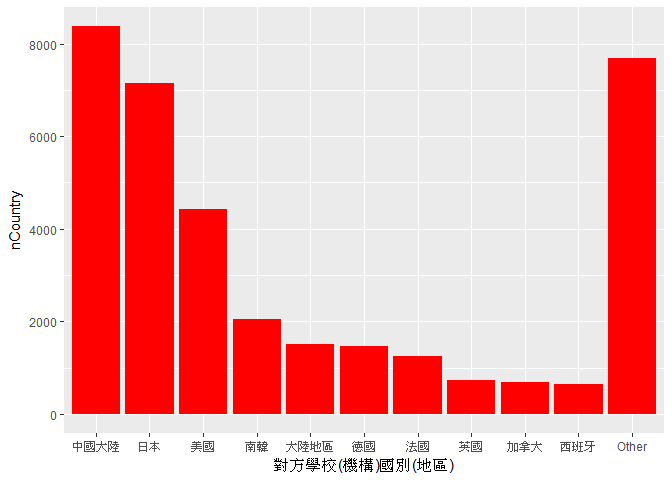
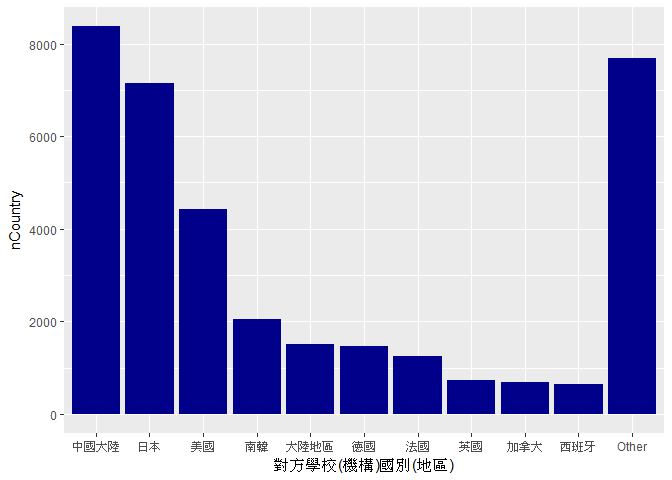
done4
done4

Changed region(s): [[0.0938, 0.0312, 1.0, 0.875]]

diff --git a/InternationalStudents.md b/InternationalStudents.md
@@ -174,7 +174,6 @@ s106<- read_csv("https://quality.data.gov.tw/dq_download_csv.php?nid=6289&md5_ur
 
 ``` r
 #這是R Code Chunk
-
 library(knitr)
 kable(head(iris))
 ```
@@ -251,25 +250,27 @@ c103104105106<-arrange(c103104105106,desc(c103104105106$total))
 knitr::kable(c103104105106[1:10,c(1,6)])
 ```
 
-| country      |                                                                                                                           total|
-|:-------------|-------------------------------------------------------------------------------------------------------------------------------:|
-| 中國大陸     |                                                                                                                          152524|
-| 馬來西亞     |                                                                                                                           62031|
-| 香港         |                                                                                                                           31940|
-| 日本         |                                                                                                                           28200|
-| 越南         |                                                                                                                           21670|
-| 澳門         |                                                                                                                           20302|
-| 印尼         |                                                                                                                           19620|
-| 南韓         |                                                                                                                           16948|
-| 美國         |                                                                                                                           14846|
-| 泰國         |                                                                                                                            7035|
-| 由上述資料分 |  析結果，顯示出「中國」來台灣唸書的學生最多，其次才是馬來西亞、香港、日本等等。其中，中國來台念書的人數為馬來西亞的2.46倍之多。|
+| country  |   total|
+|:---------|-------:|
+| 中國大陸 |  152524|
+| 馬來西亞 |   62031|
+| 香港     |   31940|
+| 日本     |   28200|
+| 越南     |   21670|
+| 澳門     |   20302|
+| 印尼     |   19620|
+| 南韓     |   16948|
+| 美國     |   14846|
+| 泰國     |    7035|
+
+由上述資料分析結果，顯示出**中國大陸**來台灣唸書的學生最多，其次才是馬來西亞、香港、日本等等。其中，中國來台念書的人數為馬來西亞的2.46倍之多。另外，前十名內僅有**美國**為非亞洲國家，其餘皆為亞洲國家。
+
+------------------------------------------------------------------------
 
 ### 哪間大學的境外生最多呢？
 
 ``` r
 #這是R Code Chunk
-
 s103$`非學位生-大陸研修生`<-as.numeric(gsub("…","0",s103$`非學位生-大陸研修生`))
 s103<-data.frame(school=s103$學校名稱,people103=s103$`學位生-正式修讀學位外國生`+s103$`學位生-僑生(含港澳)`+s103$`學位生-正式修讀學位陸生`+
                    s103$`非學位生-外國交換生`+s103$`非學位生-外國短期研習及個人選讀`+s103$`非學位生-大專附設華語文中心學生`+
@@ -314,24 +315,28 @@ s103104105106<-arrange(s103104105106,desc(s103104105106$total))
 knitr::kable(s103104105106[1:10,c(1,6)])
 ```
 
-| school               |                                                                                                                                                                     total|
-|:---------------------|-------------------------------------------------------------------------------------------------------------------------------------------------------------------------:|
-| 無法區分校別         |                                                                                                                                                                     92586|
-| 國立臺灣師範大學     |                                                                                                                                                                     22113|
-| 國立臺灣大學         |                                                                                                                                                                     18199|
-| 中國文化大學         |                                                                                                                                                                     16074|
-| 銘傳大學             |                                                                                                                                                                     16057|
-| 淡江大學             |                                                                                                                                                                     13887|
-| 國立政治大學         |                                                                                                                                                                     11626|
-| 國立成功大學         |                                                                                                                                                                     10982|
-| 輔仁大學             |                                                                                                                                                                      9499|
-| 逢甲大學             |                                                                                                                                                                      9474|
-| 由上述資料分析結果， |  顯示出「臺灣師範大學」為大學的境外生最多的學校。其次才是國立臺灣大學、中國文化大學、銘傳大學等等。出乎意料地，大學的境外生在臺灣師範大學竟然超出國立臺灣大學將近四千人。|
+| school           |  total|
+|:-----------------|------:|
+| 無法區分校別     |  92586|
+| 國立臺灣師範大學 |  22113|
+| 國立臺灣大學     |  18199|
+| 中國文化大學     |  16074|
+| 銘傳大學         |  16057|
+| 淡江大學         |  13887|
+| 國立政治大學     |  11626|
+| 國立成功大學     |  10982|
+| 輔仁大學         |   9499|
+| 逢甲大學         |   9474|
+
+由上述資料分析結果，顯示出**臺灣師範大學**為大學的境外生最多的學校。其次才是國立臺灣大學、中國文化大學、銘傳大學等等。出乎意料地，大學的境外生在臺灣師範大學竟然超出國立臺灣大學將近四千人。雖然資料顯示出境外生人數的多寡，然而卻無從得知境外生所佔學校人數的比例。因此，若得知更多相關資料便能再更進一步的分析。
+
+------------------------------------------------------------------------
 
 ### 各個國家來台灣唸書的學生人數條狀圖
 
 ``` r
 #這是R Code Chunk
+#install.packages("ggplot2")
 library(ggplot2)
 ggplot()+geom_bar(data=c103104105106,
                   aes(x=country,y=total),
@@ -356,10 +361,14 @@ ggplot()+geom_bar(data=groupCountry1,
 
 ![](InternationalStudents_files/figure-markdown_github/ToTWNCountryBar-2.png)
 
+------------------------------------------------------------------------
+
 ### 各個國家來台灣唸書的學生人數面量圖
 
 ``` r
 #這是R Code Chunk
+#install.packages("choroplethr")
+#install.packages("readr")
 library(choroplethr)
 ```
 
@@ -399,9 +408,9 @@ colnames(TotalCountry)<-c("country","value","ISO3","region")
 TotalCountry[5,2]<-TotalCountry[5,2]+TotalCountry[91,2]+TotalCountry[159,2]
 TotalCountry[107,2]<-TotalCountry[107,2]+TotalCountry[108,2]
 TotalCountry<-TotalCountry%>%
-  subset(region!="Unmatch")%>%
-  subset(country!="索馬利蘭共和國")
-a3<-country_choropleth(TotalCountry)
+    subset(region!="Unmatch")%>%
+    subset(country!="索馬利蘭共和國")
+map1<-country_choropleth(TotalCountry)
 ```
 
     ## Warning in super$initialize(country.map, user.df): Your data.frame contains
@@ -414,10 +423,11 @@ a3<-country_choropleth(TotalCountry)
     ## lesotho
 
 ``` r
-a3
+map1
 ```
 
 ![](InternationalStudents_files/figure-markdown_github/ToTWNCountryMap-1.png)
+-----------------------------------------------------------------------------
 
 台灣學生國際交流分析
 --------------------
@@ -426,6 +436,7 @@ a3
 
 ``` r
 #這是R Code Chunk
+#install.packages("readr")
 library(readr)
 Student_RPT_07 <- read_csv("C:/Users/IM/Desktop/Student_RPT_07.csv")
 ```
@@ -456,13 +467,12 @@ Student_RPT_07 <- read_csv("C:/Users/IM/Desktop/Student_RPT_07.csv")
 
 ``` r
 #這是R Code Chunk
-
 library(dplyr)
-a<-subset(Student_RPT_07,`學年度`>102)%>%
+data1<-subset(Student_RPT_07,`學年度`>102)%>%
   group_by(`對方學校(機構)國別(地區)`)%>%
   summarise(nCountry=sum(小計))
-b<-arrange(a,desc(nCountry))
-knitr::kable(b[1:10,])
+data2<-arrange(data1,desc(nCountry))
+knitr::kable(data2[1:10,])
 ```
 
 | 對方學校(機構)國別(地區) |  nCountry|
@@ -478,39 +488,45 @@ knitr::kable(b[1:10,])
 | 加拿大                   |       689|
 | 西班牙                   |       642|
 
+由上述資料分析結果，顯示出**中國大陸**為台灣大專院校的學生最喜歡去進修交流的國家。其次才是日本、美國、南韓等等。由此可見，台灣大專院校的學生並非僅以較近的亞洲國家(金錢)，作為進修交流的考量。
+
+------------------------------------------------------------------------
+
 ### 哪間大學的出國交流學生數最多呢？
 
 ``` r
 #這是R Code Chunk
-
-c<-subset(Student_RPT_07,`學年度`>102)%>%
+data3<-subset(Student_RPT_07,`學年度`>102)%>%
   group_by(`學校名稱`)%>%
   summarise(nSchool=sum(小計))
-d<-arrange(c,desc(nSchool))
-knitr::kable(d[1:10,])
+data4<-arrange(data3,desc(nSchool))
+knitr::kable(data4[1:10,])
 ```
 
-| 學校名稱         |                                                                                                                                                                             nSchool|
-|:-----------------|-----------------------------------------------------------------------------------------------------------------------------------------------------------------------------------:|
-| 國立臺灣大學     |                                                                                                                                                                                2224|
-| 淡江大學         |                                                                                                                                                                                2038|
-| 國立政治大學     |                                                                                                                                                                                1876|
-| 逢甲大學         |                                                                                                                                                                                1346|
-| 元智大學         |                                                                                                                                                                                1106|
-| 國立臺北大學     |                                                                                                                                                                                 956|
-| 國立交通大學     |                                                                                                                                                                                 951|
-| 東海大學         |                                                                                                                                                                                 931|
-| 東吳大學         |                                                                                                                                                                                 873|
-| 國立成功大學     |                                                                                                                                                                                 846|
-| 由上述資料分析結 |  果，顯示出「國立臺灣大學」的出國交流學生數在台灣眾多學校中遙遙令先暫居第一。其次才是淡江大學、國立政治大學、逢甲大學等等。其中，由前三名中顯示並非國立大學才是出國交流的第一選擇。|
+| 學校名稱     |  nSchool|
+|:-------------|--------:|
+| 國立臺灣大學 |     2224|
+| 淡江大學     |     2038|
+| 國立政治大學 |     1876|
+| 逢甲大學     |     1346|
+| 元智大學     |     1106|
+| 國立臺北大學 |      956|
+| 國立交通大學 |      951|
+| 東海大學     |      931|
+| 東吳大學     |      873|
+| 國立成功大學 |      846|
+
+由上述資料分析結果，顯示出**國立臺灣大學**的出國交流學生數，在台灣眾多學校中遙遙令先暫居第一。其次才是淡江大學、國立政治大學、逢甲大學等等。然而，由前十名中顯示，台灣學校出國交流學生數的排名為私立學校換國立學校各佔一半，因此並非國立大學才是決定出國交流的第一選擇。
+
+------------------------------------------------------------------------
 
 ### 台灣大專院校的學生最喜歡去哪些國家進修交流條狀圖
 
 ``` r
 #這是R Code Chunk
-
+#install.packages("ggplot2")
 library(ggplot2)
-ggplot()+geom_bar(data=a,
+ggplot()+geom_bar(data=data1,
                   aes(x=`對方學校(機構)國別(地區)`,y=nCountry),
                   stat = "identity") +labs(x="國家",y="人數")+theme(axis.text.x = element_text(angle = 90, hjust = 0.001))
 ```
@@ -518,25 +534,28 @@ ggplot()+geom_bar(data=a,
 ![](InternationalStudents_files/figure-markdown_github/FromTWNCountryBar-1.png)
 
 ``` r
-groupCountry2<-a%>%
-  group_by(`對方學校(機構)國別(地區)`)%>%
-  tally(nCountry,sort=TRUE)%>%
-  group_by(`對方學校(機構)國別(地區)` = factor(c(`對方學校(機構)國別(地區)`[1:10], rep("Other", n() - 10)),
-                                     levels = c(`對方學校(機構)國別(地區)`[1:10], "Other")))%>%
-  tally(n)
+groupCountry2<-data1%>%
+    group_by(`對方學校(機構)國別(地區)`)%>%
+    tally(nCountry,sort=TRUE)%>%
+    group_by(`對方學校(機構)國別(地區)` = factor(c(`對方學校(機構)國別(地區)`[1:10], rep("Other", n() - 10)),
+                                          levels = c(`對方學校(機構)國別(地區)`[1:10], "Other")))%>%
+    tally(n)
 colnames(groupCountry2)<-c("對方學校(機構)國別(地區)","nCountry")
 ggplot()+geom_bar(data=groupCountry2,
                   aes(x=`對方學校(機構)國別(地區)`,y=nCountry),
                   stat = "identity",
-                  fill = "red")
+                  fill = "darkblue")
 ```
 
 ![](InternationalStudents_files/figure-markdown_github/FromTWNCountryBar-2.png)
+-------------------------------------------------------------------------------
 
 ### 台灣大專院校的學生最喜歡去哪些國家進修交流面量圖
 
 ``` r
 #這是R Code Chunk
+#install.packages("choroplethr")
+#install.packages("readr")
 library(choroplethr)
 library(readr)
 countryname <- read_csv("C:/Users/IM/Desktop/CountriesComparisionTable.csv")
@@ -551,13 +570,13 @@ countryname <- read_csv("C:/Users/IM/Desktop/CountriesComparisionTable.csv")
 
 ``` r
 colnames(countryname)<-c("ISO3","English","中文")
-counta<-a
-colnames(counta)<-c("國名","count")
-countb<-merge(counta,countryname,by.x="國名",by.y="中文")
-colnames(countb)<-c("國名","value","ISO3","region")
-countb<-countb%>%
+count1<-data1
+colnames(count1)<-c("國名","count")
+count2<-merge(count1,countryname,by.x="國名",by.y="中文")
+colnames(count2)<-c("國名","value","ISO3","region")
+count2<-count2%>%
   subset(region!="Unmatch")
-a6<-country_choropleth(countb,num_colors=9)
+map2<-country_choropleth(count2,num_colors=9)
 ```
 
     ## Warning in super$initialize(country.map, user.df): Your data.frame contains
@@ -582,10 +601,11 @@ a6<-country_choropleth(countb,num_colors=9)
     ## lesotho, luxembourg
 
 ``` r
-a6
+map2
 ```
 
 ![](InternationalStudents_files/figure-markdown_github/FromTWNCountryMap-1.png)
+-------------------------------------------------------------------------------
 
 台灣學生出國留學分析
 --------------------
@@ -594,8 +614,9 @@ a6
 
 ``` r
 #這是R Code Chunk
+#install.packages("readr")
 library(readr)
-m105 <- read_csv("C:/Users/IM/Desktop/m105.csv")
+data105 <- read_csv("C:/Users/IM/Desktop/m105.csv")
 ```
 
     ## Warning: Missing column names filled in: 'X4' [4], 'X5' [5], 'X6' [6]
@@ -610,37 +631,45 @@ m105 <- read_csv("C:/Users/IM/Desktop/m105.csv")
     ##   X6 = col_character()
     ## )
 
+------------------------------------------------------------------------
+
 ### 台灣學生最喜歡去哪些國家留學呢？
 
 ``` r
 #這是R Code Chunk
+#install.packages("dplyr")
 library(dplyr)
-m105$X4=NULL
-m105$X5=NULL
-m105$X6=NULL
-m105[is.na(m105)]=0
-m105<-arrange(m105,desc(m105$總人數))
-knitr::kable(m105[1:10,])
+data105$X4=NULL
+data105$X5=NULL
+data105$X6=NULL
+data105[is.na(data105)]=0
+data105<-arrange(data105,desc(data105$總人數))
+knitr::kable(data105[1:10,])
 ```
 
-| 洲別       | 國別         |                                                                            總人數                                                                            |
-|:-----------|:-------------|:------------------------------------------------------------------------------------------------------------------------------------------------------------:|
-| 美洲       | 美國         |                                                                             21127                                                                            |
-| 大洋洲     | 澳大利亞     |                                                                             13582                                                                            |
-| 亞洲       | 日本         |                                                                             8444                                                                             |
-| 美洲       | 加拿大       |                                                                             4827                                                                             |
-| 歐洲       | 英國         |                                                                             3815                                                                             |
-| 歐洲       | 德國         |                                                                             1488                                                                             |
-| 大洋洲     | 紐西蘭       |                                                                             1106                                                                             |
-| 歐洲       | 波蘭         |                                                                              561                                                                             |
-| 亞洲       | 馬來西亞     |                                                                              502                                                                             |
-| 歐洲       | 奧地利       |                                                                              419                                                                             |
-| 由上述資料 | 分析結果，顯 | 示出「美國」為台灣最為受歡迎的留學國家，其次才是澳大利亞、日本、加拿大等等。其中，美國留學的人數遠超過澳大利亞7545人。其中，唯一擠進前三名的亞洲國家為日本。 |
+| 洲別   | 國別     | 總人數 |
+|:-------|:---------|:------:|
+| 美洲   | 美國     |  21127 |
+| 大洋洲 | 澳大利亞 |  13582 |
+| 亞洲   | 日本     |  8444  |
+| 美洲   | 加拿大   |  4827  |
+| 歐洲   | 英國     |  3815  |
+| 歐洲   | 德國     |  1488  |
+| 大洋洲 | 紐西蘭   |  1106  |
+| 歐洲   | 波蘭     |   561  |
+| 亞洲   | 馬來西亞 |   502  |
+| 歐洲   | 奧地利   |   419  |
+
+由上述資料分析結果，顯示出**美國**為台灣最為受歡迎的留學國家，其次才是澳大利亞、日本、加拿大等等。其中，美國留學的人數遠超過澳大利亞7545人。其中，唯一擠進前三名的亞洲國家為**日本**。
+
+------------------------------------------------------------------------
 
 ### 台灣學生最喜歡去哪些國家留學面量圖
 
 ``` r
 #這是R Code Chunk
+#install.packages("readr")
+#install.packages("choroplethr")
 library(readr)
 library(choroplethr)
 countryname <- read_csv("C:/Users/IM/Desktop/CountriesComparisionTable.csv")
@@ -655,9 +684,9 @@ countryname <- read_csv("C:/Users/IM/Desktop/CountriesComparisionTable.csv")
 
 ``` r
 colnames(countryname)<-c("ISO3","English","國別")
-m105countryname<-merge(m105,countryname,by="國別")
+m105countryname<-merge(data105,countryname,by="國別")
 colnames(m105countryname)<-c("國名","洲別","value","ISO3","region")
-a8<-country_choropleth(m105countryname)
+map3<-country_choropleth(m105countryname)
 ```
 
     ## Warning in super$initialize(country.map, user.df): Your data.frame contains
@@ -688,7 +717,7 @@ a8<-country_choropleth(m105countryname)
     ## luxembourg, latvia, morocco
 
 ``` r
-a8
+map3
 ```
 
 ![](InternationalStudents_files/figure-markdown_github/FromTWNAbMap-1.png)
@@ -698,4 +727,6 @@ a8
 
 請問來台讀書與離台讀書的來源國與留學國趨勢是否相同(5分)？想來台灣唸書的境外生，他們的母國也有很多台籍生嗎？請圖文並茂說明你的觀察(10分)。
 
-來台讀書的來源國為中國大陸、日本、美國，而離台讀書的留學國為美國、澳大利亞、日本。其中美國及日本無論是來台讀書或是出國留學都為十分受歡迎的選擇。
+------------------------------------------------------------------------
+
+根據上述所有資料進行分析比對之後，來台讀書的來源國為中國大陸、馬來西亞、香港、日本等等，而離台讀書的留學國為美國、澳大利亞、日本、加拿大等等。顯示出**美國**及**日本**無論是來台讀書或是出國留學，都為十分受歡迎的選擇。另外，想來台灣唸書的境外生排名依序為中國大陸、日本、美國、南韓……。其中，**日本**及**美國**國內也有相當多的台籍生。
